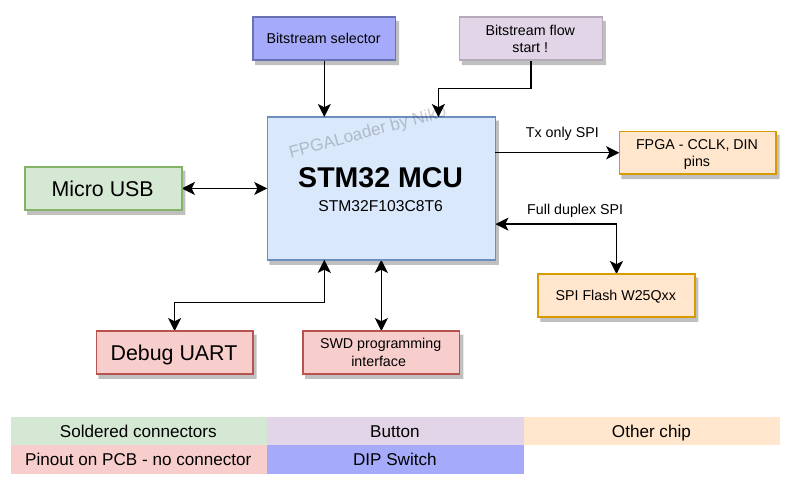
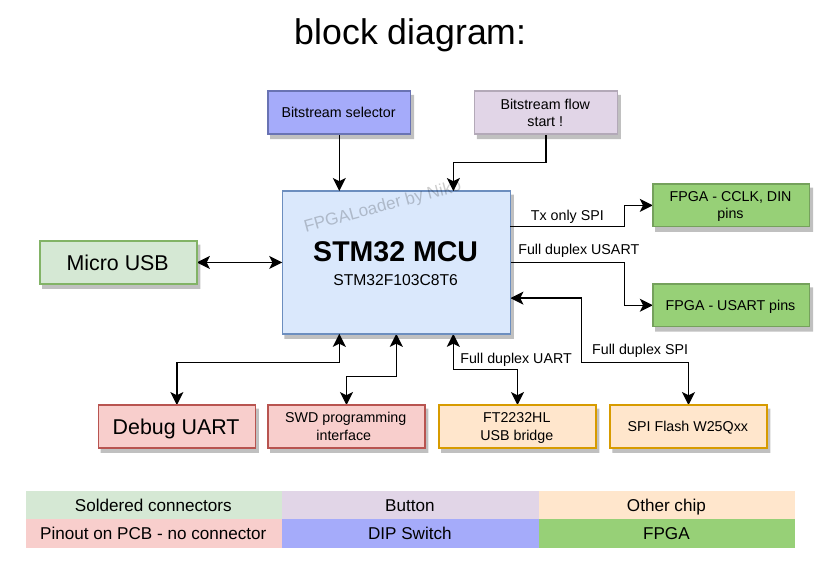
Making some changes -> ADDED USART between STM32 & FPGA -> ADDED UART between STM32 & FT2232HL -> better description of integration with PC

diff --git a/README.md b/README.md
@@ -17,4 +17,19 @@ Choosing bitstream can be done:
 - by pressing one of few buttons   
 or   
 - by setting a DIP switch and pressing a button   
-it is not defined Yet.
+it is not defined Yet.   
+
+## What application will be able to do using FCS?
+PC can communicate with FCS directly using USB-CDC or indirectly(UART) with FT2232HL converter. It is able to:   
+
+- Writing into a SPI Flash(up to 4096 Bytes into specified sector)   
+- Assignment of memory part(specifying start sector and ammout of Bytes) for
+each FPGA bitstream   
+- Choosing bitstream to send into FPGA    
+- Triggering sending bitstream into FPGA   
+- Communicate with FPGA using UART <-> STM32 <-> USART <-> FPGA(only after fpga configuration)   
+
+App on PC can also trigger bitstream loading(using USB-CDC or UART).   
+
+## DONE
+- Written some firmware which allows user to change content of SPI FLASH over USB-CDC
